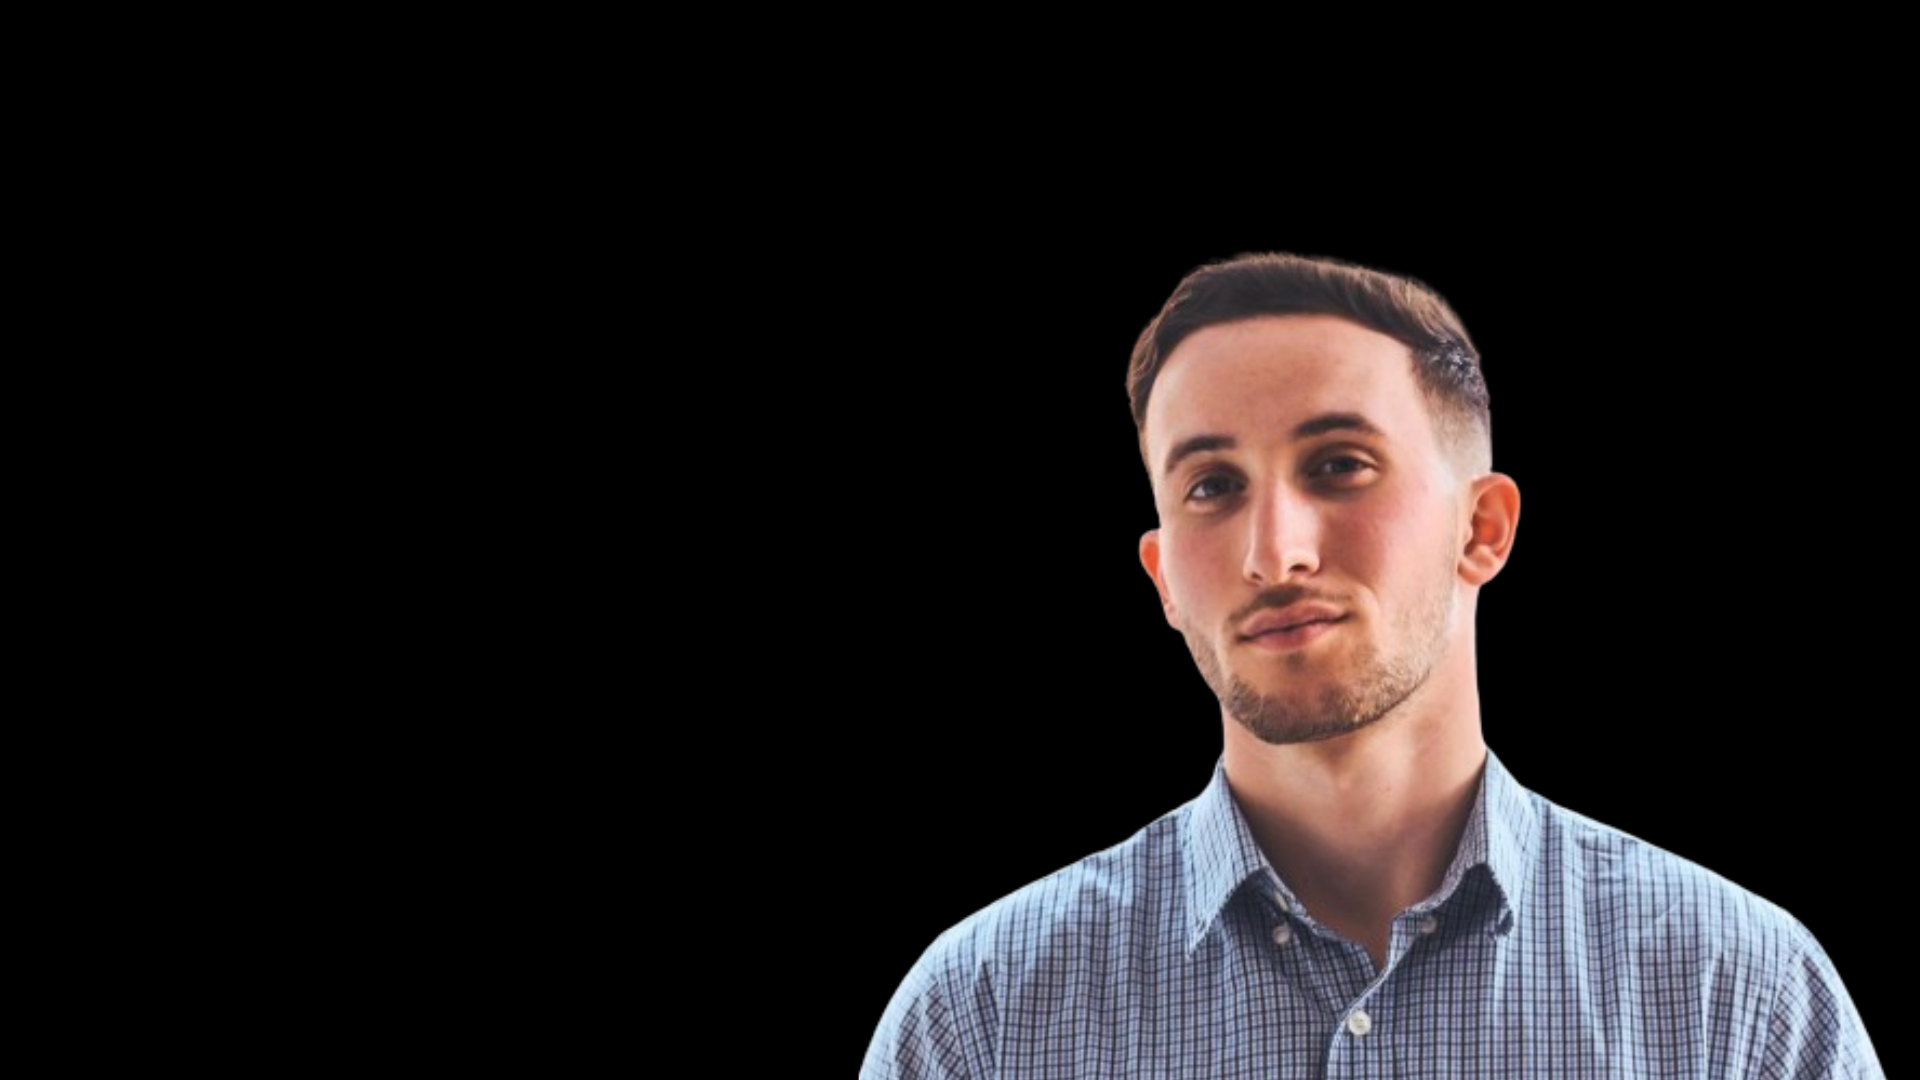
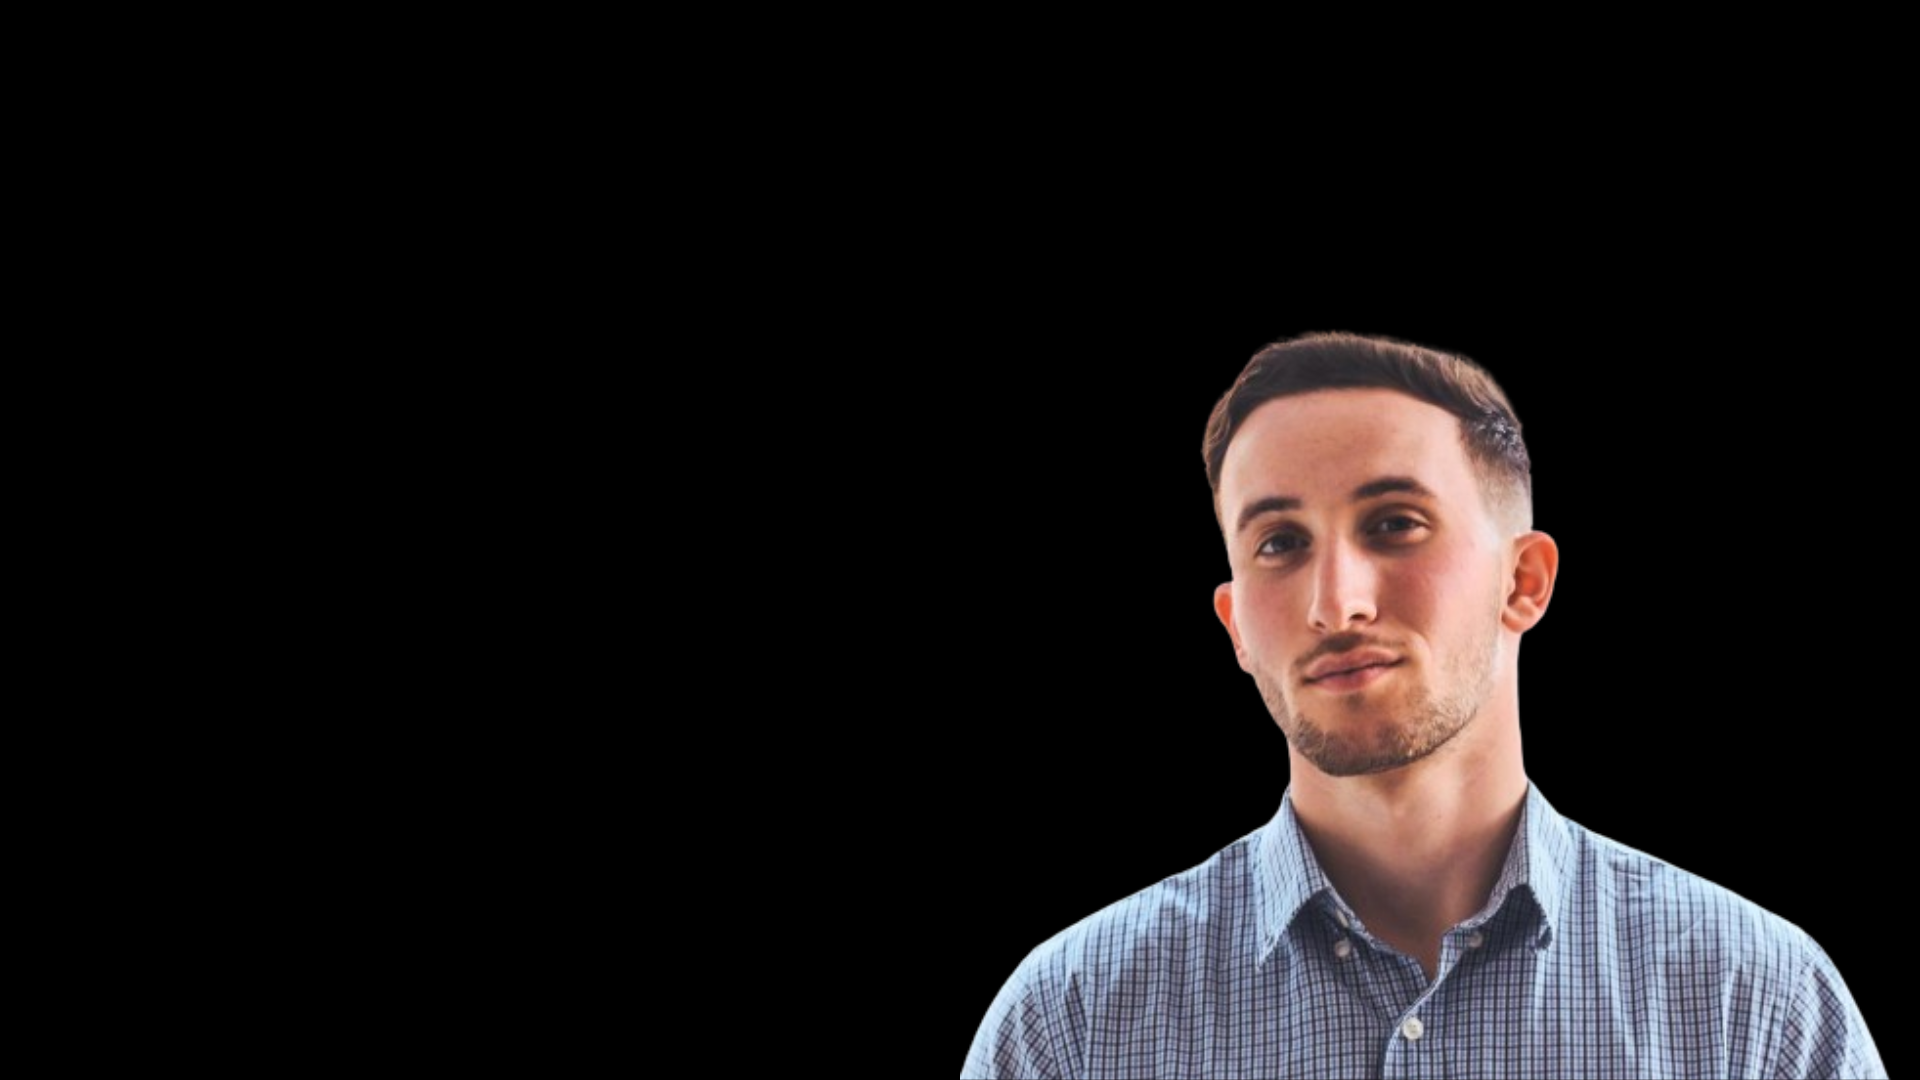
Started the about section; ended with adding the paragragh description

Changed region(s): [[0.4375, 0.2139, 1.0, 1.0]]

diff --git a/index.html b/index.html
@@ -6,6 +6,7 @@
     <title>Portfolio Website</title>
     <link rel="stylesheet" href="style.css">
 </head>
+<!-- id being used for main div but class being used for sub divs -->
 <body>
     <div id="header">
         <div class="container">
@@ -25,5 +26,22 @@
             </div>
         </div>
     </div>
+    <!-----------about --------------->
+<div id="about">
+    <div class="container">
+        <div class="row">
+            <div class="about-col-1">
+                <img src="images/user.png" alt="user">
+            </div>
+            <div class="about-col-2">
+                <h1 class="subtitle">About Me</h1>
+                <p>Lorem, ipsum dolor sit amet consectetur adipisicing elit. Nam cum officia earum iste
+                    voluptate suscipit ratione quae aut quas nesciunt ullam ipsa fugit 
+                    iure consequatur explicabo, velit aliquid itaque sequi.
+                </p>
+            </div>
+        </div>
+    </div>
+</div>
 </body>
 </html>

diff --git a/style.css b/style.css
@@ -80,3 +80,36 @@ nav ul li a:hover::after{
 .header-text h1 span{
     color: #5271ff;
 }
+
+/* ----------about----------- */
+
+#about{
+    padding: 80px 0;
+    color: #ababab;
+}
+.row{
+    display: flex;
+    justify-content: space-between;
+    flex-wrap: wrap;
+}
+
+.about-col-1{
+    /* the width of the column will be 35% */
+    flex-basis: 35%;
+}
+
+.about-col-1 img{
+    width: 100%;
+    border-radius: 15px;
+}
+
+.about-col-2{
+    /* the first colmn is 35% and the second is 60% leaving 5% space between the columns */
+    flex-basis: 60%;
+}
+
+.subtitle{
+    font-size: 60px;
+    font-weight: 600;
+    color: #fff;
+}
